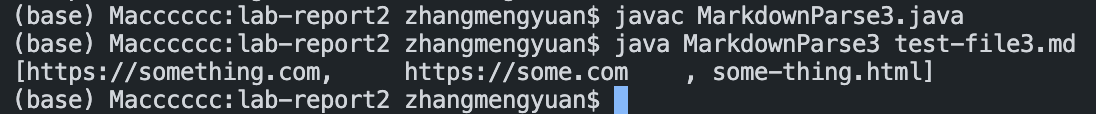
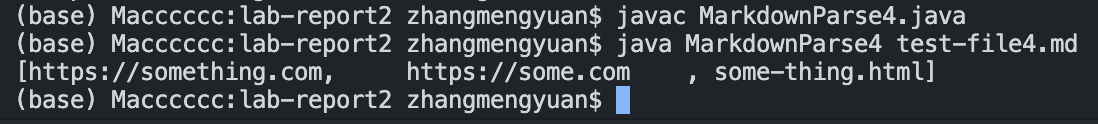
1

Changed region(s): [[0.0, 0.0263, 0.9927, 1.0], [0.4343, 0.0, 0.4653, 0.0263]]

diff --git a/lab-report2/MarkdownParse4.java b/lab-report2/MarkdownParse4.java
@@ -1,0 +1,32 @@
+//https://howtodoinjava.com/java/io/java-read-file-to-string-examples/
+
+import java.io.IOException;
+import java.nio.file.Files;
+import java.nio.file.Path;
+import java.util.ArrayList;
+
+public class MarkdownParse4 {
+
+    public static ArrayList<String> getLinks(String markdown) {
+        ArrayList<String> toReturn = new ArrayList<>();
+        // find the next [, then find the ], then find the (, then read link upto next )
+        int currentIndex = 0;
+        while (currentIndex < markdown.length()) {
+            int openBracket = markdown.indexOf("[", currentIndex);
+            int closeBracket = markdown.indexOf("]", openBracket);
+            int openParen = markdown.indexOf("(", closeBracket);
+            int closeParen = markdown.indexOf(")", openParen);
+            toReturn.add(markdown.substring(openParen + 1, closeParen));
+            currentIndex = closeParen + 1;
+        }
+
+        return toReturn;
+    }
+
+    public static void main(String[] args) throws IOException {
+        Path fileName = Path.of(args[0]);
+        String content = Files.readString(fileName);
+        ArrayList<String> links = getLinks(content);
+        System.out.println(links);
+    }
+}
